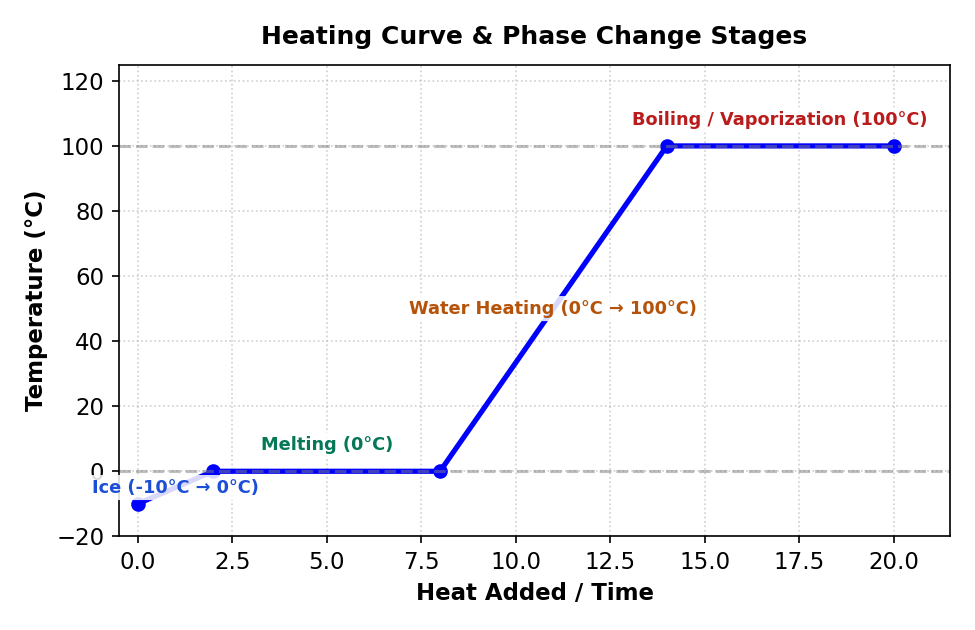
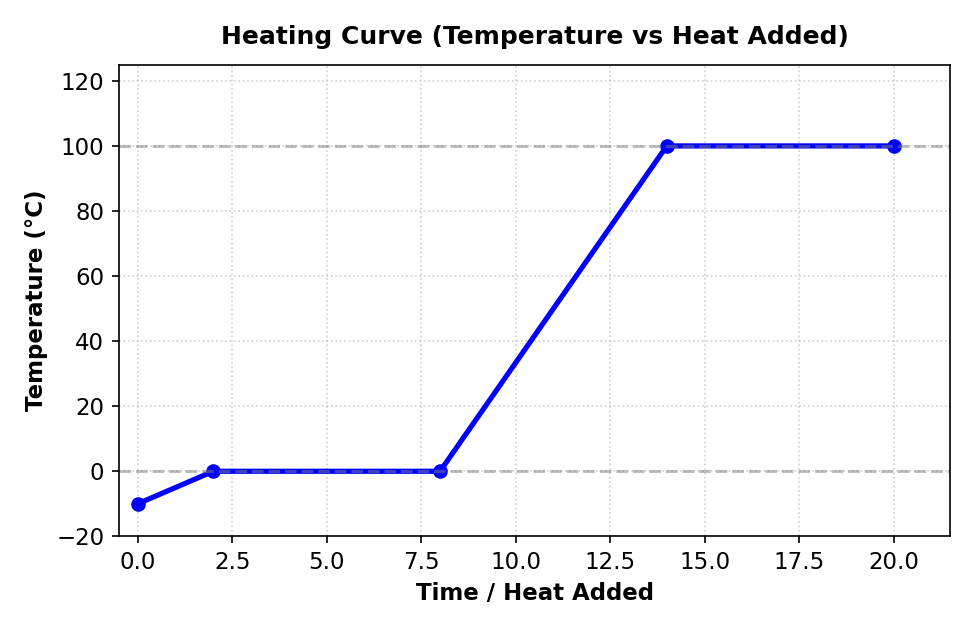
Update and deploy web app

diff --git a/data/phy_m6/phy_m6_ch15-1-data.js b/data/phy_m6/phy_m6_ch15-1-data.js
@@ -18,7 +18,7 @@ export const quizItems = [
         "question": "หากต้องการยกรถยนต์มวล 1,600 kg ที่วางอยู่บนลูกสูบใหญ่ ต้องออกแรงดันที่ลูกสูบเล็กอย่างน้อยเท่าใด (ตอบเป็นจำนวนเต็ม ในหน่วย N)",
         "answer": 400,
         "unit": "N",
-        "hint": "ใช้หลักการของพาสคัล \\(\\frac{F_1}{A_1} = \\frac{F_2}{A_2}\\)",
+        "hint": "พิจารณาการถ่ายทอดความดันที่เท่ากันในของไหลตามกฎของพาสคัล",
         "explanation": "1. น้ำหนักรถยนต์บนลูกสูบใหญ่: \\(W = Mg = 1600 \\times 10 = 16,000\\text{ N}\\).<br>2. จากกฎของพาสคัล: \\(\\frac{F_1}{A_1} = \\frac{F_2}{A_2} \\implies \\frac{F_1}{0.02} = \\frac{16,000}{0.8} \\implies F_1 = 20,000 \\times 0.02 = 400\\text{ N}\\).",
         "subCategory": {
           "main": "บทที่ 15: ของแข็งและของไหล",
@@ -31,7 +31,7 @@ export const quizItems = [
         "question": "การได้เปรียบเชิงกลตามทฤษฎี (Theoretical Mechanical Advantage: MA) ของเครื่องอัดไฮดรอลิกนี้มีค่าเท่าใด (ตอบเป็นจำนวนเต็ม)",
         "answer": 40,
         "unit": "",
-        "hint": "อัตราส่วนระหว่างพื้นที่หน้าตัดลูกสูบใหญ่ต่อพื้นที่หน้าตัดลูกสูบเล็ก \\(\\frac{A_2}{A_1}\\)",
+        "hint": "พิจารณาอัตราส่วนของพื้นที่หน้าตัดลูกสูบเพื่อหาอัตราการผ่อนแรง",
         "explanation": "การได้เปรียบเชิงกลตามทฤษฎี \\(\\text{MA} = \\frac{A_2}{A_1} = \\frac{0.8}{0.02} = 40\\).",
         "subCategory": {
           "main": "บทที่ 15: ของแข็งและของไหล",
@@ -44,7 +44,7 @@ export const quizItems = [
         "question": "หากกดลูกสูบเล็กลงเป็นระยะ 50 cm ลูกสูบใหญ่จะเคลื่อนที่ยกสูงขึ้นกี่เซนติเมตร (ตอบเป็นทศนิยม 2 ตำแหน่ง ในหน่วย cm)",
         "answer": 1.25,
         "unit": "cm",
-        "hint": "งานที่ทำกับลูกสูบเล็กเท่ากับงานที่ลูกสูบใหญ่ได้รับ \\(F_1 d_1 = F_2 d_2\\) หรือ \\(A_1 d_1 = A_2 d_2\\)",
+        "hint": "พิจารณาหลักการอนุรักษ์งานและปริมาตรของไหลที่ถูกแทนที่",
         "explanation": "1. จากการอนุรักษ์ปริมาตรของไหล: \\(A_1 d_1 = A_2 d_2\\).<br>2. แทนค่า: \\(0.02 \\times 50 = 0.8 \\times d_2 \\implies 1.0 = 0.8 d_2 \\implies d_2 = 1.25\\text{ cm}\\).",
         "subCategory": {
           "main": "บทที่ 15: ของแข็งและของไหล",
@@ -65,7 +65,7 @@ export const quizItems = [
       "ความดันบรรยากาศ และปริมาตรของเหลวทั้งหมด"
     ],
     "answer": "ความหนแน่นของของเหลว และความลึกจากผิวน้ำ",
-    "hint": "ความดันเกจคำนวณจาก P_g = \\rho g h ไม่รวมความดันบรรยากาศ",
+    "hint": "พิจารณาเฉพาะความดันเนื่องจากน้ำหนักคอลัมน์ของเหลว",
     "explanation": "ความดันเกจ (\\(P_g = \\rho g h\\)) ขึ้นอยู่กับความหนาแน่นของของเหลว (\\(\\rho\\)), ค่าความเร่งโน้มถ่วง (\\(g\\)) และระดับความลึกจากผิวน้ำ (\\(h\\)) เท่านั้น โดยไม่ขึ้นกับความดันบรรยากาศและรูปร่างภาชนะ",
     "subCategory": {
       "main": "บทที่ 15: ของแข็งและของไหล",
@@ -78,7 +78,7 @@ export const quizItems = [
     "question": "นักดำน้ำ ดำลงไปในน้ำทะเลที่มีความหนาแน่น \\(1,025\\text{ kg/m}^3\\) ณ ระดับความลึก 20 เมตร ความดันสัมบูรณ์ที่นักดำน้ำได้รับมีค่ากี่กิโลปาสคาล (กำหนดให้ความดันบรรยากาศ \\(P_0 = 100\\text{ kPa}\\) และ \\(g = 10\\text{ m/s}^2\\)) (ตอบเป็นจำนวนเต็ม)",
     "answer": 305,
     "unit": "kPa",
-    "hint": "ความดันสัมบูรณ์ P_abs = P_0 + \\rho g h",
+    "hint": "พิจารณาผลรวมของความดันบรรยากาศและความดันเกจที่ระดับความลึกนั้น",
     "explanation": "1. ความดันเกจ: \\(P_g = \\rho g h = (1025)(10)(20) = 205,000\\text{ Pa} = 205\\text{ kPa}\\).<br>2. ความดันสัมบูรณ์: \\(P_{\\text{abs}} = P_0 + P_g = 100 + 205 = 305\\text{ kPa}\\).",
     "subCategory": {
       "main": "บทที่ 15: ของแข็งและของไหล",
@@ -97,7 +97,7 @@ export const quizItems = [
       "900 kg/m³"
     ],
     "answer": "800 kg/m³",
-    "hint": "ใช้หลักความดันที่ระดับเดียวกันในของเหลวชนิดเดียวกันมีค่าเท่ากัน P_oil = P_water",
+    "hint": "พิจารณาความดันที่ระดับรอยต่อของเหลวที่เท่ากันในหลอดตัวยู",
     "explanation": "ที่ระดับแบ่งกั้นความดันเท่ากัน: \\(P_{\\text{oil}} = P_{\\text{water}} \\implies \\rho_{\\text{oil}} g h_{\\text{oil}} = \\rho_{\\text{water}} g h_{\\text{water}} \\implies \\rho_{\\text{oil}} (15) = (1000)(12) \\implies \\rho_{\\text{oil}} = \\frac{12000}{15} = 800\\text{ kg/m}^3\\).",
     "subCategory": {
       "main": "บทที่ 15: ของแข็งและของไหล",

diff --git a/data/phy_m6/phy_m6_ch16-2-data.js b/data/phy_m6/phy_m6_ch16-2-data.js
@@ -18,7 +18,7 @@ export const quizItems = [
         "question": "พลังงานความร้อนจากแสงอาทิตย์ที่ตกกระทบแผงรับรังสีทั้งหมดในเวลา 1 วินาทีมีค่ากี่จูล (J) (ตอบเป็นจำนวนเต็ม)",
         "answer": 3200,
         "unit": "J",
-        "hint": "พลังงานต่อวินาที P_total = ความเข้มรังสี x พื้นที่แผง",
+        "hint": "พิจารณาอัตราการรับพลังงานความร้อนจากแสงอาทิตย์ต่อพื้นที่แผง",
         "explanation": "1. กำลังความร้อนทั้งหมด: \\(P_{\\text{total}} = (800\\text{ W/m}^2)(4\\text{ m}^2) = 3,200\\text{ W} = 3,200\\text{ J/s}\\).",
         "subCategory": {
           "main": "บทที่ 16: ความร้อนและทฤษฎีจลน์ของแก๊ส",
@@ -31,7 +31,7 @@ export const quizItems = [
         "question": "พลังงานความร้อนที่ถูกถ่ายโอนเข้าสู่น้ำจริงในเวลา 1 นาทีมีค่ากี่กิโลจูล (kJ) (ตอบเป็นทศนิยม 1 ตำแหน่ง)",
         "answer": 134.4,
         "unit": "kJ",
-        "hint": "พลังงานที่ได้จริง P_net = P_total x 0.70 แล้วคูณเวลา 60 วินาที",
+        "hint": "คำนึงถึงประสิทธิภาพของระบบและระยะเวลาในการสะสมความร้อน",
         "explanation": "1. กำลังความร้อนที่ใช้จริง: \\(P_{\\text{net}} = 3200 \\times 0.70 = 2,240\\text{ W}\\).<br>2. พลังงานใน 1 นาที (60s): \\(Q = 2240 \\times 60 = 134,400\\text{ J} = 134.4\\text{ kJ}\\).",
         "subCategory": {
           "main": "บทที่ 16: ความร้อนและทฤษฎีจลน์ของแก๊ส",
@@ -45,7 +45,7 @@ export const quizItems = [
         "question": "ถ้าน้ำไหลเข้าแผงด้วยอุณหภูมิ 25°C น้ำที่ไหลออกจากแผงจะมีอุณหภูมิเท่าใด (ตอบเป็นองศาเซลเซียส °C ตอบเป็นจำนวนเต็ม)",
         "answer": 45,
         "unit": "°C",
-        "hint": "ใช้ Q = m c \\Delta T ในเวลา 1 นาที โดย m = 1.6 kg",
+        "hint": "พิจารณาอัตราการเปลี่ยนแปลงอุณหภูมิจากพลังงานความร้อนที่น้ำได้รับจริง",
         "explanation": "1. จากสูตร \\(Q = m c \\Delta T \\implies 134,400 = (1.6\\text{ kg})(4200)(T_{\\text{out}} - 25)\\).<br>2. \\(134,400 = 6720 (T_{\\text{out}} - 25) \\implies T_{\\text{out}} - 25 = \\frac{134,400}{6720} = 20 \\implies T_{\\text{out}} = 45^\\circ\\text{C}\\).",
         "subCategory": {
           "main": "บทที่ 16: ความร้อนและทฤษฎีจลน์ของแก๊ส",
@@ -65,7 +65,7 @@ export const quizItems = [
       "35°C"
     ],
     "answer": "25°C",
-    "hint": "ใช้อัตราส่วนเทียบสเกล (X - X_freeze) / (X_boil - X_freeze) = (C - 0) / (100 - 0)",
+    "hint": "พิจารณาสัดส่วนความยาวช่วงอุณหภูมิระหว่างจุดเยือกแข็งและจุดเดือด",
     "explanation": "1. จากการเทียบสเกล: \\(\\frac{X - (-10)}{110 - (-10)} = \\frac{C - 0}{100 - 0} \\implies \\frac{20 + 10}{120} = \\frac{C}{100}\\).<br>2. \\(\\frac{30}{120} = \\frac{C}{100} \\implies \\frac{1}{4} = \\frac{C}{100} \\implies C = 25^\\circ\\text{C}\\).",
     "subCategory": {
       "main": "บทที่ 16: ความร้อนและทฤษฎีจลน์ของแก๊ส",
@@ -78,7 +78,7 @@ export const quizItems = [
     "question": "ต้องให้ความร้อนแก่น้ำมวล 2 kg อุณหภูมิ 20°C เป็นปริมาณกี่กิโลจูล (kJ) เพื่อทำให้น้ำร้อนขึ้นจนกลายเป็นไอน้ำเดือดที่ 100°C ไปแล้วครึ่งหนึ่ง (กำหนด \\(c_{\\text{water}} = 4.2\\text{ kJ/kg}\\cdot^\\circ\\text{C}\\), \\(L_v = 2,260\\text{ kJ/kg}\\)) (ตอบเป็นจำนวนเต็ม)",
     "answer": 2932,
     "unit": "kJ",
-    "hint": "Q_total = Q_warm(น้ำ 20->100) + Q_vap(น้ำ 1 kg เปลี่ยนเป็นไอ)",
+    "hint": "คำนวณผลรวมความร้อนทั้งช่วงเพิ่มอุณหภูมิและช่วงเปลี่ยนสถานะ",
     "explanation": "1. ความร้อนทำให้น้ำ 2 kg ร้อนจาก 20°C เป็น 100°C: \\(Q_1 = (2)(4.2)(80) = 672\\text{ kJ}\\).<br>2. ความร้อนทำให้น้ำ 1 kg เปลี่ยนเป็นไอ: \\(Q_2 = (1)(2260) = 2,260\\text{ kJ}\\).<br>3. ปริมาณความร้อนรวม: \\(Q_{\\text{total}} = 672 + 2260 = 2,932\\text{ kJ}\\).",
     "subCategory": {
       "main": "บทที่ 16: ความร้อนและทฤษฎีจลน์ของแก๊ส",

diff --git a/data/phy_m6/phy_m6_ch16-1-data.js b/data/phy_m6/phy_m6_ch16-1-data.js
@@ -18,7 +18,7 @@ export const quizItems = [
         "question": "ปริมาณความร้อนที่ต้องใช้ในการทำให้น้ำแข็งอุณหภูมิ -10°C เพิ่มขึ้นเป็นน้ำแข็งอุณหภูมิ 0°C เท่ากับกี่กิโลจูล (kJ) (ตอบเป็นทศนิยม 2 ตำแหน่ง)",
         "answer": 4.2,
         "unit": "kJ",
-        "hint": "ความร้อนเปลี่ยนอุณหภูมิ Q = m c \\Delta T",
+        "hint": "พิจารณาปริมาณความร้อนที่ใช้ในการเปลี่ยนแปลงอุณหภูมิของสสาร",
         "explanation": "1. จากสูตร \\(Q_1 = m c_{\\text{ice}} \\Delta T\\).<br>2. แทนค่า: \\(Q_1 = (0.2\\text{ kg})(2.1\\text{ kJ/kg}\\cdot^\\circ\\text{C})(0 - (-10)) = 0.2 \\times 2.1 \\times 10 = 4.20\\text{ kJ}\\).",
         "subCategory": {
           "main": "บทที่ 16: ความร้อนและทฤษฎีจลน์ของแก๊ส",
@@ -32,7 +32,7 @@ export const quizItems = [
         "question": "ปริมาณความร้อนแฝงที่ต้องใช้ในการทำให้น้ำแข็งอุณหภูมิ 0°C หลอมเหลวกลายเป็นน้ำ 0°C ทั้งหมด เท่ากับกี่กิโลจูล (kJ) (ตอบเป็นทศนิยม 1 ตำแหน่ง)",
         "answer": 66.6,
         "unit": "kJ",
-        "hint": "ความร้อนแฝงเปลี่ยนสถานะ Q = m L_f",
+        "hint": "พิจารณาความร้อนแฝงที่ใช้ในการเปลี่ยนสถานะโดยอุณหภูมิไม่เปลี่ยนแปลง",
         "explanation": "1. จากสูตร \\(Q_2 = m L_f\\).<br>2. แทนค่า: \\(Q_2 = (0.2\\text{ kg})(333\\text{ kJ/kg}) = 66.6\\text{ kJ}\\).",
         "subCategory": {
           "main": "บทที่ 16: ความร้อนและทฤษฎีจลน์ของแก๊ส",
